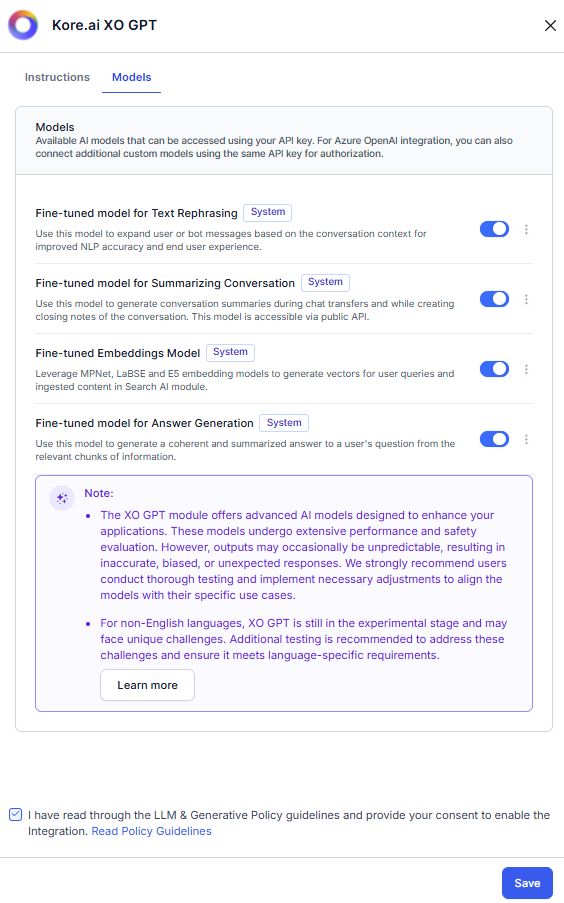
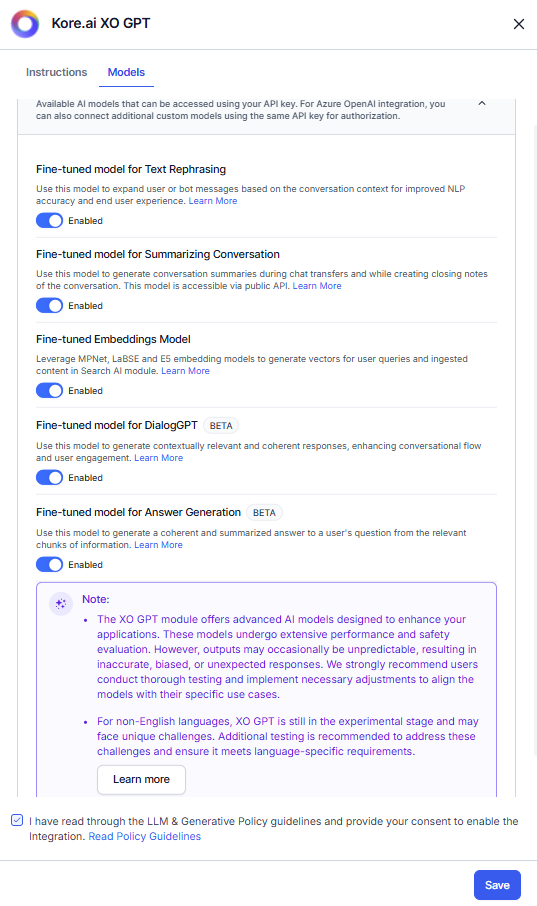
updated

diff --git a/docs/xo/automation/dynamic-routing.md b/docs/xo/automation/dynamic-routing.md
@@ -1,10 +1,11 @@
 
 
-# Universal App Using DialogGPT
+# Dynamic Routing Capability Powered by DialogGPT
 
-A universal app serves as a single entry point for users to access multiple specialized bots. It acts as a central hub that intelligently routes user queries to the most appropriate underlying app based on the user's intent.
 
-You can expand the functionality of your XO11 app to encompass the capabilities of a Universal App by linking it to one or more other apps using the Automation Node within Flows. This feature is powered by DialogGPT, an intelligent agentic orchestrator leveraging Retrieval-Augmented Generation (RAG) and Large Language Models (LLMs).
+A Dynamic Routing serves as a single entry point for users to access multiple specialized bots. It acts as a central hub that intelligently routes user queries to the most appropriate underlying app based on the user's intent.
+
+You can expand the functionality of your XO11 app to encompass the Dynamic Routing capabilities by linking it to one or more other apps using the Automation Node within Flows. This feature is powered by DialogGPT, an intelligent agentic orchestrator leveraging Retrieval-Augmented Generation (RAG) and Large Language Models (LLMs).
 
 DialogGPT significantly improves the accuracy of intent detection and eliminates the traditional requirement for extensive utterance-based training. DialogGPT intelligently analyzes user input, taking into account the conversation history and current context, to route the request to the most relevant linked app during runtime. 
 
@@ -18,7 +19,7 @@ The Automation Node has been enhanced with two levels of autonomy based on your 
 
 
 
-* **Orchestrated Autonomy**: Structured conversation flows powered by DialogGPT’s intent identification. This option expands the capabilities of the app to act as a universal app and allows you to link one or more automation apps, streamlining orchestration and enabling dynamic routing. 
+* **Orchestrated Autonomy**: Structured conversation flows powered by DialogGPT’s intent identification expand the app’s Dynamic Routing capabilities, allowing you to link multiple automation apps to streamline orchestration. 
 * **Full Autonomy**: Agent Platform-powered automation that independently handles entire conversation flows, adapting to situations without predefined paths.
 
 
@@ -38,7 +39,7 @@ Once you link apps in the Automation Node, they remain associated with other flo
 
 ### App Indexes
 
-The Universal App maintains two key indexes:
+The Dynamic Routing maintains two key indexes:
 
 
 
@@ -60,9 +61,9 @@ DialogGPT is an advanced Intent Detection and Conversation Management module tha
 * Resolution of ambiguous intents through clarifying questions.
 
 
-## How the Universal App Works
+## How the Dynamic Routing Works
 
-The Universal App leverages DialogGPT and Language Models (LLM) to understand user queries, identify intents, and provide relevant responses by dynamically routing requests to the appropriate linked app. Here's an overview of how it works:
+The Dynamic Routing leverages DialogGPT and Language Models (LLM) to understand user queries, identify intents, and provide relevant responses by dynamically routing requests to the appropriate linked app. Here's an overview of how it works:
 
 
 
@@ -76,7 +77,7 @@ The Universal App leverages DialogGPT and Language Models (LLM) to understand us
 3. Intent Identification:
     * The user input and the most relevant chunks are sent to the LLM.
     * The LLM analyzes this information to identify the most appropriate intent behind the user's query.
-4. Fulfillment and Response: Based on the identified intent, the Universal App determines the appropriate fulfillment type and generates a response. This can involve:
+4. Fulfillment and Response: Based on the identified intent, the Dynamic Routing determines the appropriate fulfillment type and generates a response. This can involve:
     * Executing a dialog.
     * Providing an answer from FAQs or knowledge documents.
     * Handling multiple intents.
@@ -84,35 +85,35 @@ The Universal App leverages DialogGPT and Language Models (LLM) to understand us
     * Engaging in small talk when appropriate.
 
 
-## Setting Up a Universal App
+## Setting Up a Dynamic Routing
 
-The Automation Node allows you to link multiple apps within your accessible workspace. An app can be linked only if it contains at least one dialog. To configure a universal app functionality, you must have access to at least two apps within the same workspace.
+The Automation Node allows you to link multiple apps within your accessible workspace. An app can be linked only if it contains at least one dialog. To configure a Dynamic Routing functionality, you must have access to at least two apps within the same workspace.
 
 Before proceeding, ensure that DialogGPT is enabled. For details, see [How to Enable DialogGPT](../generative-ai-tools/dialog-gpt/#how-to-enable-dialoggpt). To explore supported models, see [Model Configuration](../generative-ai-tools/dgpt-conversation-orchestration.md#model-configurations).
 
-Step to set up a Universal App:
+Step to set up a Dynamic Routing:
 
 
 
 1. Navigate to **Flows & Channels** > **Flows** > **Start Flows** > **Welcome Chat Flow**. Click the **Automation Node**.  
-<img src="../images/ua2.png" alt="Universal App" title="Universal App" style="border: 1px solid gray; zoom:80%;"> 
+<img src="../images/ua2.png" alt="Dynamic Routing" title="Dynamic Routing" style="border: 1px solid gray; zoom:80%;"> 
 
 2. On the Component Properties tab, select Conversation Management Approach as **Orchestrated Autonomy**.
 3. In the Automation AI Options section, select **Use GenAI to dynamically route to linked apps**. If DialogGPT is disabled, follow the onscreen instructions to enable it.
 4. Click **+Link Apps**. The available apps to link are displayed.  
-<img src="../images/ua1.png" alt="Universal App" title="Universal App" style="border: 1px solid gray; zoom:80%;"> 
+<img src="../images/ua1.png" alt="Dynamic Routing" title="Dynamic Routing" style="border: 1px solid gray; zoom:80%;"> 
 5. Select the app(s) and click **Save**. The success message is displayed.
 6. Click **Manage** if you want to link/unlink the apps.  
-<img src="../images/ua3.png" alt="Universal App" title="Universal App" style="border: 1px solid gray; zoom:80%;"> 
+<img src="../images/ua3.png" alt="Dynamic Routing" title="Dynamic Routing" style="border: 1px solid gray; zoom:80%;"> 
 
 
 
 ## Managing App Updates
 
 
-### Publishing Universal App Functionality
+### Publishing Dynamic Routing Functionality
 
-Publishing the Universal App functionality with DialogGPT follows a structured process for which the parent app generates two indexes, i.e. Configured App Index and Published App Index. Keeping the configured and published indexes in sync is essential for maintaining seamless functionality.
+Publishing the Dynamic Routing functionality with DialogGPT follows a structured process for which the parent app generates two indexes, i.e. Configured App Index and Published App Index. Keeping the configured and published indexes in sync is essential for maintaining seamless functionality.
 
 To learn more about the In-development and Published app, see [Publication Statuses](../deploy/publishing-bot.md).
 
@@ -138,7 +139,7 @@ If you add or update dialogs or FAQs in the parent app or link a new app to it, 
 
 
 
-* Ensure DialogGPT is enabled before setting up the Universal App.
+* Ensure DialogGPT is enabled before setting up the Dynamic Routing.
 * Publish linked apps before publishing the parent app.
 * Use "Sync Updates" and re-publish apps whenever you make changes to keep indexes in sync.
 

diff --git a/docs/xo/generative-ai-tools/models-library.md b/docs/xo/generative-ai-tools/models-library.md
@@ -4,7 +4,7 @@
 
 To use LLM and Generative AI features, you must configure the integration with a pre-built or custom LLM or Kore.ai XO GPT Module.
 
-Review the model and feature support matrix for the [Co-Pilot features](./co-pilot-features.md#model-and-supported-features) and [Dynamic Conversation features](./dynamic-conversations-features.md#model-and-supported-features).
+Review the model and feature support matrix for the [GenAI Features](genai-features.md).
 
 
 ## Pre-built LLM Integration
@@ -39,7 +39,7 @@ Steps to configure a pre-built LLM:
         You can save the configuration with an unsuccessful connection.
 
 
-6. The configured model is listed in the Models Library. The next step is to enable [Co-Pilot](co-pilot-features.md) and [Dynamic Conversations](dynamic-conversations-features.md) features.
+6. The configured model is listed in the Models Library. The next step is to enable [GenAI Features](genai-features.md).
 
 
 ## Provider's New LLM Integration
@@ -131,7 +131,7 @@ Steps to Integrate a Custom LLM:
 ## Amazon Bedrock LLM Integration Framework
 
 
-XO Platform now offers Amazon Bedrock as an out-of-box (OOB) integration. This integration lets platform users access Amazon Bedrock's models directly from the XO Platform. The users can create custom prompts for their specific use cases and use the connected models across Co-Pilot and Dynamic Conversations features. While Amazon Bedrock is available as an OOB integration, XO Platform does not provide any system prompts or templates. Users can only use the model with the help of custom prompts.
+XO Platform now offers Amazon Bedrock as an out-of-box (OOB) integration. This integration lets platform users access Amazon Bedrock's models directly from the XO Platform. The users can create custom prompts for their specific use cases and use the connected models across GenAI features. While Amazon Bedrock is available as an OOB integration, XO Platform does not provide any system prompts or templates. Users can only use the model with the help of custom prompts.
 
 !!! note
 
@@ -176,7 +176,7 @@ Ensure all necessary variables are set up before configuring the LLM. For more d
 
 !!! note
 
-    Co-Pilot features can use content and environment variables. Dynamic Conversations features can use content, context, and environment variables.
+    Runtime features can use content and environment variables. Designtime features can use content, context, and environment variables.
 
 
 ### Key Advantages
@@ -215,7 +215,7 @@ Steps to configure a pre-built LLM using Dynamic Variables:
 
             You can save the configuration with an unsuccessful connection.
 
-7. The configured model is listed in the Models Library. The next step is to enable [Co-Pilot](co-pilot-features.md) and [Dynamic Conversations](dynamic-conversations-features.md) features.
+7. The configured model is listed in the Models Library. The next step is to enable [GenAI Features](genai-features.md).
 
 
 ### Configure Provider's New LLM Integration using Dynamic Variables
@@ -305,7 +305,8 @@ Steps to configure an Amazon Bedrock LLM using Dynamic Variables:
 
 ## Kore.ai XO GPT Integration
 
-The new Kore.ai XO GPT Models module provides fine-tuned large language models optimized for enterprise conversational AI applications. These models have been evaluated and fine-tuned to be accurate, safe, and efficient for production deployment. Current capabilities include Conversation Summarization, User Query Rephrasing, Vector Generation and Answer Generation.
+The new Kore.ai XO GPT Models module provides fine-tuned large language models optimized for enterprise conversational AI applications. These models have been evaluated and fine-tuned to be accurate, safe, and efficient for production deployment. Current capabilities include Conversation Summarization, User Query Rephrasing, Vector Generation, Answer Generation, and DialogGPT - Conversation Orchestration.
+
 
 
 ### Enable Kore.ai XO GPT Integration
@@ -313,10 +314,7 @@ Steps to enable Kore.ai XO GPT Models.
 
 1. Go to **Generative AI Tools** > **Models Library**.
 
-2. Click **Enable Now** for Kore.ai XO GPT.  <img src="../images/llm-intro.png" alt="Models Library" title="Models Library" style="border: 1px solid gray; zoom:70%;">
-
-    If you have already configured a model, click **+ New Model > Kore.ai XO GPT**.
-    <img src="../images/xogpt2.png" alt="XO GPT" title="XO GPT" style="border: 1px solid gray; zoom:70%;">
+2. Click **Enable Now** for Kore.ai XO GPT. If you have already configured a model, click **+ New Model > Kore.ai XO GPT**.  <img src="../images/llm-intro.png" alt="Models Library" title="Models Library" style="border: 1px solid gray; zoom:70%;">
    
  
 3. On the **Models** tab, toggle on the models as required.
@@ -324,12 +322,11 @@ Steps to enable Kore.ai XO GPT Models.
 
 
 
-4. Read the Policy Guidelines, select the checkbox, and click Save.
-5. The success confirmation message is displayed on the screen. The configured model is listed in the LLM Integration section. The status changes to X/Y models configured, where X is the number of the model(s) configured, and Y is the number of model(s) supported.
-<img src="../images/model-status.png" alt="Model Configured" title="Model Configured" style="border: 1px solid gray; zoom:70%;">
+4. Read the Policy Guidelines, select the checkbox, and click **Save**.
+5. The Configuration successful message is displayed, and the XO GPT is listed in the Models Library. 
 
 
-6. You can now use these models in [Co-Pilot](co-pilot-features.md) and [Dynamic Conversations](dynamic-conversations-features.md) features.
+6. You can now use these models in [GenAI Features](genai-features.md).
 
 
 ## Reset/Delete the Configured LLM Integration

diff --git a/docs/xo/generative-ai-tools/dgpt-conversation-orchestration.md b/docs/xo/generative-ai-tools/dgpt-conversation-orchestration.md
@@ -4,7 +4,7 @@ Conversation Orchestration in DialogGPT allows you to define and manage Conversa
 This flexible system gives developers complete control over conversation management, ensuring the accuracy, relevance, and efficiency of user interactions.
 
 
-<img src="../images/gpt4.png" alt="DialogGPT" title="" style="border: 1px solid gray; zoom:70%;"> 
+<img src="./images/gpt4.png" alt="DialogGPT" title="" style="border: 1px solid gray; zoom:70%;"> 
 
 ## Conversation Types
 
@@ -30,7 +30,12 @@ The XO Platform supports **MPNet**, **BGE-M3**, **LaBSE**, and **E5 embedding** 
 
 
 * **Conversation Management**: 
-Currently, **OpenAI GPT-4o**, **OpenAI GPT-4o mini**, and **Azure OpenAI GPT-4o** models are supported for user intent detection and execution plans. You can configure Temperature, Max Tokens, and Conversation History Length in advanced settings. In most cases, the default settings work fine. Support for the major commercial models will be available in the upcoming months. However, you can always bring your own model via the custom LLM integration route.  
+The supported LLMs assist in detecting user intent and creating execution plans. You can configure advanced settings such as Temperature, Max Tokens, and Conversation History Length. The default settings are sufficient for most use cases. Support for major commercial models will be introduced in the coming months. However, you can always integrate your own model through the custom LLM integration option. Conversation Management currently supports the following LLMs:
+    * OpenAI GPT-4o
+    * OpenAI GPT-4o mini
+    * Azure OpenAI GPT-4o
+    * XO GPT – DialogGPT
+  
 
 To configure the model and settings, click **Settings**. Select the model, adjust the settings if necessary, and click **Save**.
 
@@ -50,6 +55,8 @@ The following is the intent event fulfillment behavior.
     * Present Qualified Intents (Default): Display a list of intents for the user to select or respond to. The task chosen (Dialog, FAQ, or Answer) is triggered.
     * Execute Dialog task: Select the dialog task to execute.
 * **Answer Generation**: This event handles user inputs that need answers generated from Search AI documents. When Knowledge from Search AI is enabled in DialogGPT, the system activates the Answer Generation event and adds the default event handler to the bot.
+
+* **Multiple Intents**: Define Multi-Intent fulfillment logic when the Conversation Orchestrator detects multiple intents in a user’s utterance. Users can modify the predefined Multi-Intent fulfillment dialog, gaining greater control and flexibility. By default, the platform executes the predefined dialog (Multiintent) to handle the Multi-Intent event.
 
 To manage an intent, click the respective settings. Define the event configuration, use the toggle to enable/disable the intent type, and click save.
 

diff --git a/docs/xo/generative-ai-tools/xo-gpt-module.md b/docs/xo/generative-ai-tools/xo-gpt-module.md
@@ -47,3 +47,5 @@ The Kore.ai XO GPT module currently supports the following features:
 * **Rephrase User Query**: This XO GPT model utilizes the bot domain knowledge and conversation history to expand and rephrase user queries for improved understanding by downstream NLP components. This includes better recognition of contextual intents, entity co-referencing, and more. [Learn more](dynamic-conversations-features.md 'Rephrase User Query').
 
 * **Vector Generation**: This feature helps create vector embeddings for all the ingested data in the Search AI application. When the user inputs a query, the query is converted into an embedding, and then a vector search is performed to get a list of relevant data from the ingested data. This relevant data is then sent to the answer generation feature. [Learn more](dynamic-conversations-features.md#vector-generation).
+
+* **DialogGPT - Conversation Orchestration**: This feature intelligently manages conversations, understands user intent, handles requests, seeks clarification when needed, and automatically deals with common conversational flows like pausing, repeating information, or restarting. When used in the universal app, it seamlessly routes conversations to the correct app/assistant based on the user's stated needs for organizations with multiple apps/virtual assistants.

diff --git a/docs/xo/release-notes/11.x/platform-services.md b/docs/xo/release-notes/11.x/platform-services.md
@@ -8,12 +8,21 @@ This document provides information on the feature updates and enhancements intro
 
 This update include enhancement and bug fixes. The key enhancement included in this release is summarized below.
 
+### LLM & Generative AI
+
+#### Unified Generative AI and LLM Interface
+
+This update introduces a new unified interface for Generative AI and LLM capabilities, logically organized features under product categories (Automation AI, Search AI, Agent AI), and a search bar for quick feature discovery.
+[Learn more :octicons-arrow-right-24:](../../generative-ai-tools/genai-features.md)
+
 ### Admin Console
 
 #### SSO Compatibility Improvement
 
 The Platform has introduced a new configuration option to enhance Single Sign-On (SSO) compatibility and resolve authentication issues caused by the RequestedAuthnContext parameter in SAML requests. This ensures seamless integration with various identity providers, including Azure AD.  
 [Learn more :octicons-arrow-right-24:](../../administration/security-and-control/using-single-sign-on.md#saml)
+
+
 
 ### Voice Gateway
 

diff --git a/docs/xo/generative-ai-tools/prompts-library.md b/docs/xo/generative-ai-tools/prompts-library.md
@@ -105,7 +105,7 @@ For example, double-click the "content" key in the JSON structure and click **Sa
 12. Click **Save**. The request is added and displayed in the **Prompts and Requests Library** section.
 <img src="../images/custom-prompt.png" alt="custom-prompt" title="Custom Prompt" style="border: 1px solid gray; zoom:70%;">
  
-13. Now proceed to enable[ Co-Pilot](co-pilot-features.md) and[ Dynamic Conversations](dynamic-conversations-features.md) features.
+13. Now proceed to enable [GenAI Features](genai-features.md).
 
 		
 

diff --git a/docs/xo/generative-ai-tools/dialog-gpt.md b/docs/xo/generative-ai-tools/dialog-gpt.md
@@ -51,6 +51,8 @@ DialogGPT triggers the resolved intent with the appropriate fulfillment action. 
 
 ## How to Enable DialogGPT
 
+Before proceeding, ensure that the LLM powering the DialogGPT is successfully integrated. For more details on supported models, refer to the [Model Configurations](dgpt-conversation-orchestration.md#model-configurations) and see the [LLM Integration](models-library.md) documentation.
+
 Steps:
 
 1. Navigate to **Generative AI Tools** > **DialogGPT**.  
